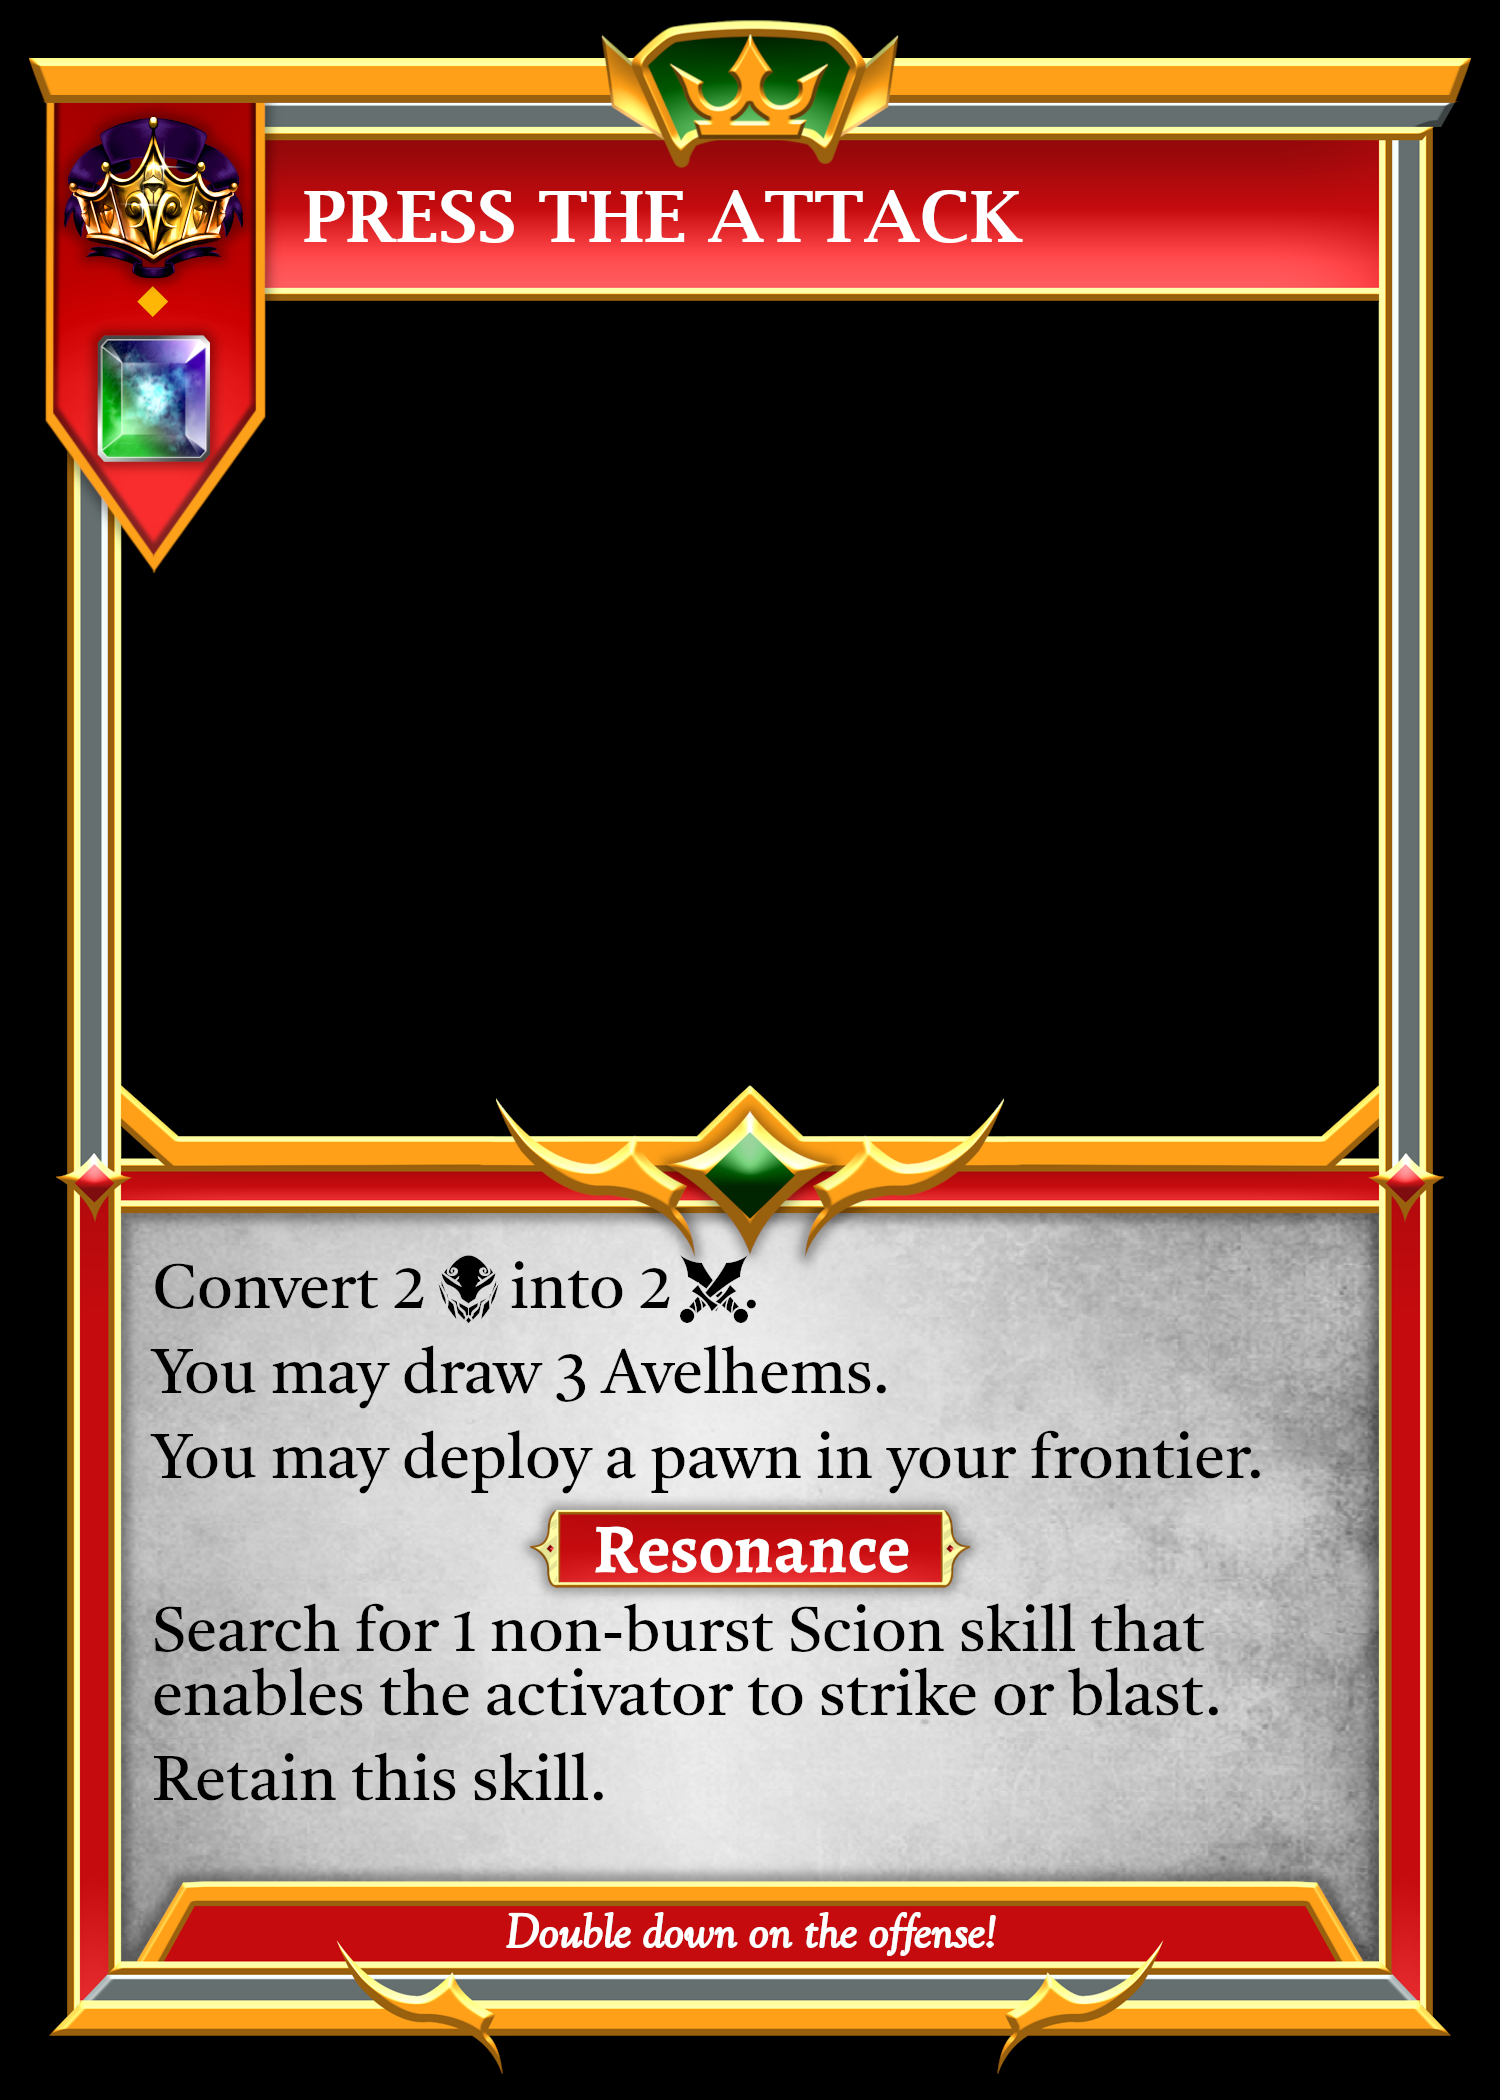
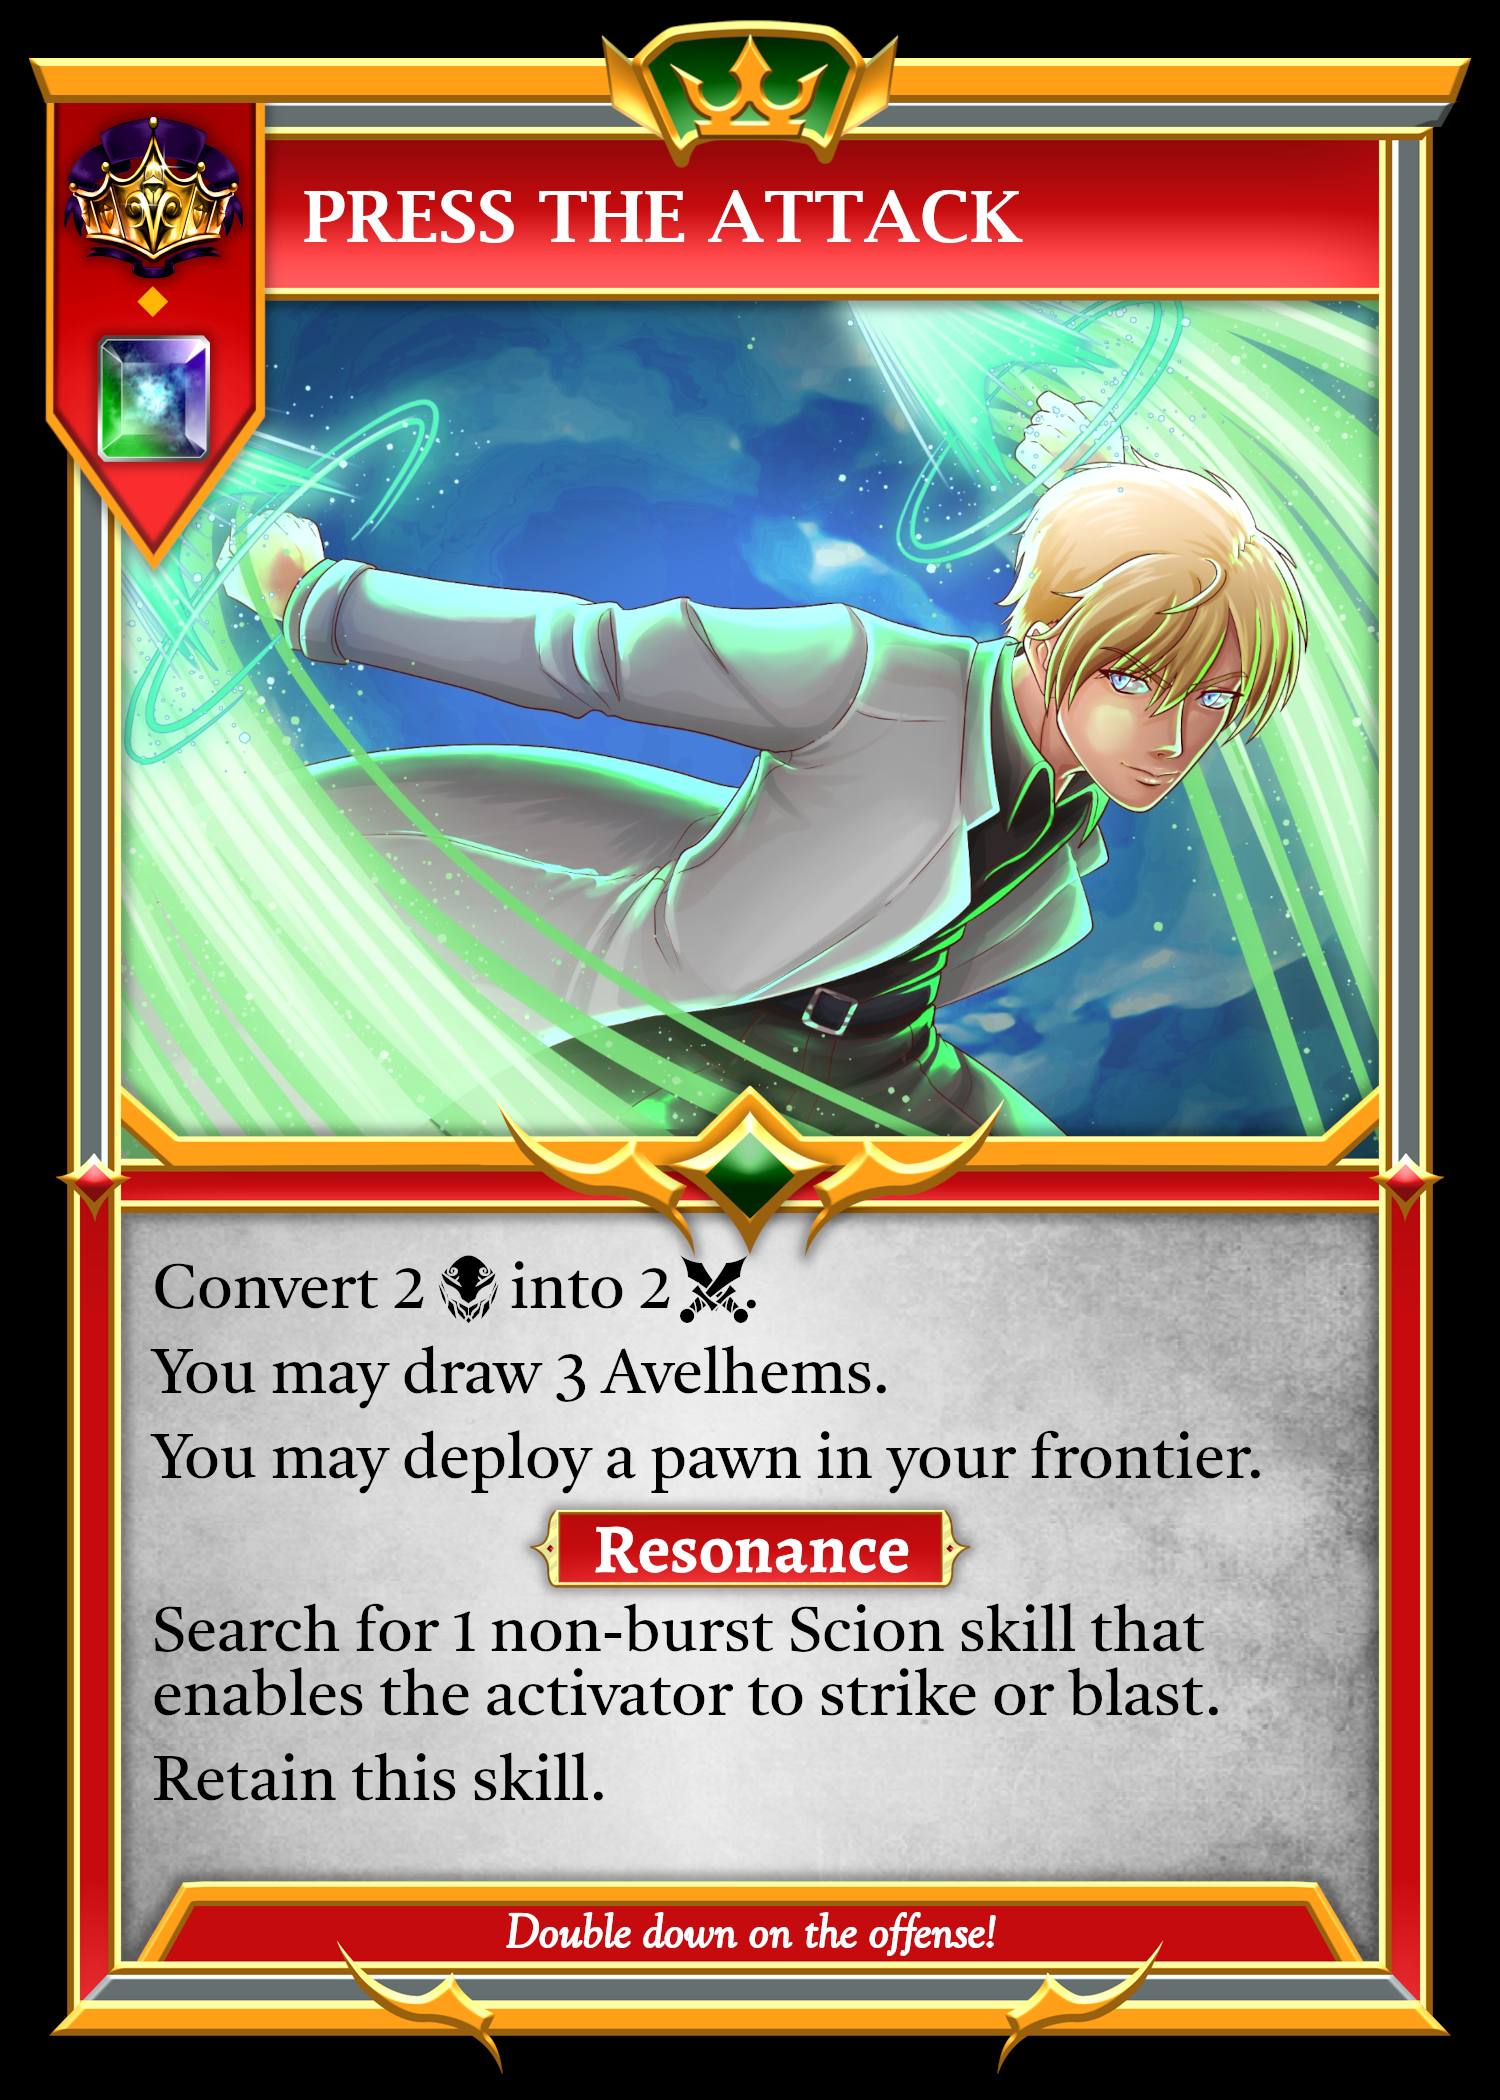
Added images to talent.

diff --git a/src/hooks/useCardImageSwitch.jsx b/src/hooks/useCardImageSwitch.jsx
@@ -79,17 +79,25 @@ import PlantScion from "../assets/scionIcons/PlantScion.png";
 
 import Afterburner from "../assets/abilities/Afterburner.png";
 import FieryHeart from "../assets/abilities/FieryHeart.png";
+import FlashFire from "../assets/abilities/FlashFire.png";
 import Hydrotherapy from "../assets/abilities/Hydrotherapy.png";
 import ColdEmbrace from "../assets/abilities/ColdEmbrace.png";
+import Kleptothermy from "../assets/abilities/Kleptothermy.png";
 import AirDash from "../assets/abilities/AirDash.png";
 import ReapTheWhirlwind from "../assets/abilities/ReapTheWhirlwind.png";
+import SecondWind from "../assets/abilities/SecondWind.png";
 import Fortify from "../assets/abilities/Fortify.png";
+import MountainStance from "../assets/abilities/MountainStance.png";
 import Galvanize from "../assets/abilities/Galvanize.png";
 import ArcFlash from "../assets/abilities/ArcFlash.png";
+import LightningRod from "../assets/abilities/LightningRod.png";
 import ParticleBeam from "../assets/abilities/ParticleBeam.png";
+import AmbianceAssimilation from "../assets/abilities/AmbianceAssimilation.png";
 import Brandish from "../assets/abilities/Brandish.png";
+import Conduction from "../assets/abilities/Conduction.png";
 import Flourish from "../assets/abilities/Flourish.png";
 import Ambrosia from "../assets/abilities/Ambrosia.png";
+import Everblooming from "../assets/abilities/Everblooming.png";
 
 export const useCardImageSwitch = () => {
   const getElementImage = (scionClass) => {
@@ -145,6 +153,8 @@ export const useCardImageSwitch = () => {
         return Afterburner;
       case "FieryHeart":
         return FieryHeart;
+      case "FlashFire":
+        return FlashFire;
 
       case 2:
         return WaterAvelhem;
@@ -160,6 +170,8 @@ export const useCardImageSwitch = () => {
         return Hydrotherapy;
       case "ColdEmbrace":
         return ColdEmbrace;
+      case "Kleptothermy":
+        return Kleptothermy;
 
       case 3:
         return WindAvelhem;
@@ -175,6 +187,8 @@ export const useCardImageSwitch = () => {
         return AirDash;
       case "ReapTheWhirlwind":
         return ReapTheWhirlwind;
+      case "SecondWind":
+        return SecondWind;
 
       case 4:
         return LandAvelhem;
@@ -188,6 +202,8 @@ export const useCardImageSwitch = () => {
         return Geomancy;
       case "Fortify":
         return Fortify;
+      case "MountainStance":
+        return MountainStance;
 
       case 5:
         return LightningAvelhem;
@@ -203,6 +219,8 @@ export const useCardImageSwitch = () => {
         return Galvanize;
       case "ArcFlash":
         return ArcFlash;
+      case "LightningRod":
+        return LightningRod;
 
       case 6:
         return ManaAvelhem;
@@ -216,6 +234,8 @@ export const useCardImageSwitch = () => {
         return DisruptionField;
       case "ParticleBeam":
         return ParticleBeam;
+      case "AmbianceAssimilation":
+        return AmbianceAssimilation;
 
       case 7:
         return MetalAvelhem;
@@ -229,6 +249,8 @@ export const useCardImageSwitch = () => {
         return ArsenalOnslaught;
       case "Brandish":
         return Brandish;
+      case "Conduction":
+        return Conduction;
 
       case 8:
         return PlantAvelhem;
@@ -244,6 +266,8 @@ export const useCardImageSwitch = () => {
         return Flourish;
       case "Ambrosia":
         return Ambrosia;
+      case "Everblooming":
+        return Everblooming;
 
       case "SA-01":
         return HeirsEndeavor;

diff --git a/src/hooks/useRecurringEffects.jsx b/src/hooks/useRecurringEffects.jsx
@@ -2528,7 +2528,7 @@ export const useRecurringEffects = () => {
         delete unit.afflictions.burn;
 
         newGameState.activatingUnit.push(unit);
-        // newGameState.activatingSkill.push(???)
+        newGameState.activatingSkill.push("FlashFire");
         newGameState.currentResolution.push({
           resolution: "Unit Talent",
           resolution2: "Talent Conclusion",
@@ -2549,7 +2549,7 @@ export const useRecurringEffects = () => {
         delete unit.afflictions.burn;
 
         newGameState.activatingUnit.push(unit);
-        // newGameState.activatingSkill.push(???)
+        newGameState.activatingSkill.push("Kleptothermy");
         newGameState.currentResolution.push({
           resolution: "Unit Talent",
           resolution2: "Talent Conclusion",
@@ -2568,7 +2568,7 @@ export const useRecurringEffects = () => {
         break;
       case "Land Scion":
         newGameState.activatingUnit.push(unit);
-        // newGameState.activatingSkill.push(???)
+        newGameState.activatingSkill.push("MountainStance");
         newGameState.currentResolution.push({
           resolution: "Unit Talent",
           resolution2: "Talent Conclusion",
@@ -2587,7 +2587,7 @@ export const useRecurringEffects = () => {
         break;
       case "Lightning Scion":
         newGameState.activatingUnit.push(unit);
-        // newGameState.activatingSkill.push(???)
+        newGameState.activatingSkill.push("LightningRod");
         newGameState.currentResolution.push({
           resolution: "Unit Talent",
           resolution2: "Talent Conclusion",
@@ -2608,7 +2608,7 @@ export const useRecurringEffects = () => {
         break;
       case "Metal Scion":
         newGameState.activatingUnit.push(unit);
-        // newGameState.activatingSkill.push(???)
+        newGameState.activatingSkill.push("Conduction");
         newGameState.currentResolution.push({
           resolution: "Unit Talent",
           resolution2: "Talent Conclusion",

diff --git a/src/components/Board.jsx b/src/components/Board.jsx
@@ -5419,7 +5419,7 @@ const Board = (props) => {
     //end "Talent Conclusion"
     newGameState.currentResolution.pop();
 
-    // newGameState.activatingSkill.pop();
+    newGameState.activatingSkill.pop();
     newGameState.activatingUnit.pop();
 
     dispatch(updateState(newGameState));
